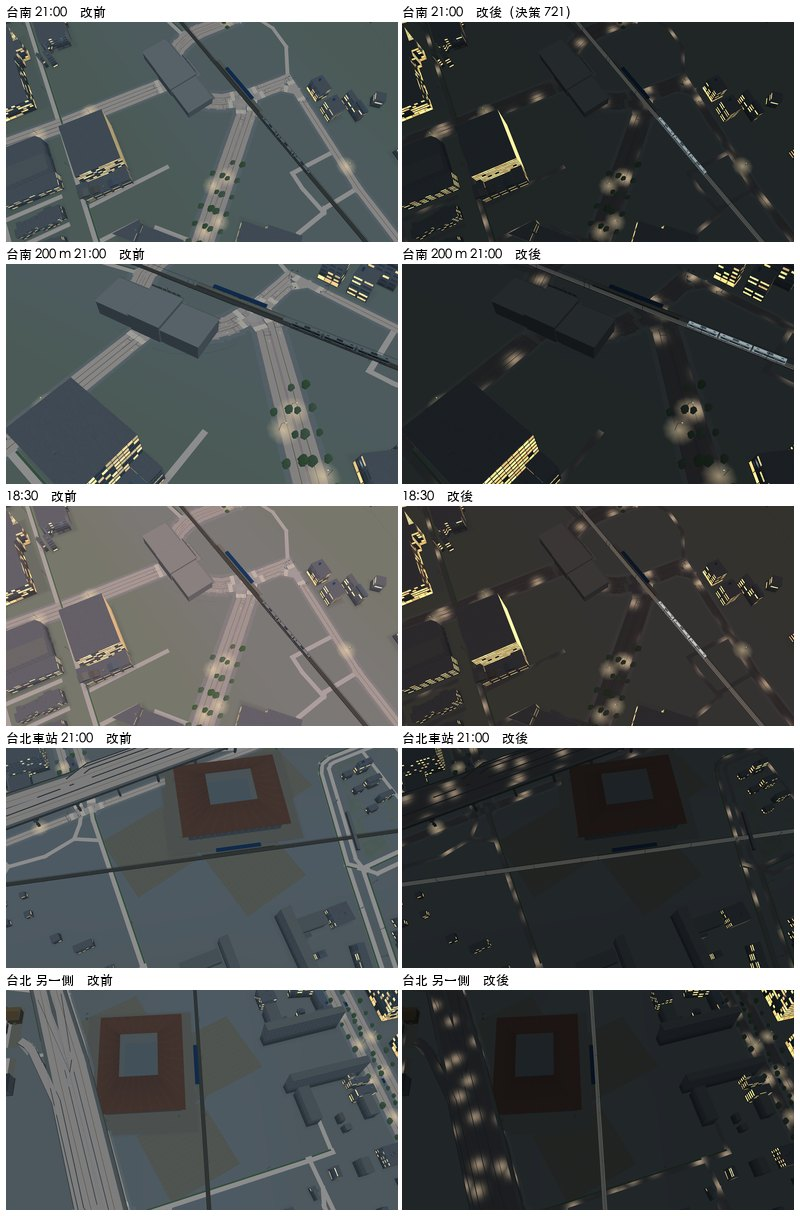
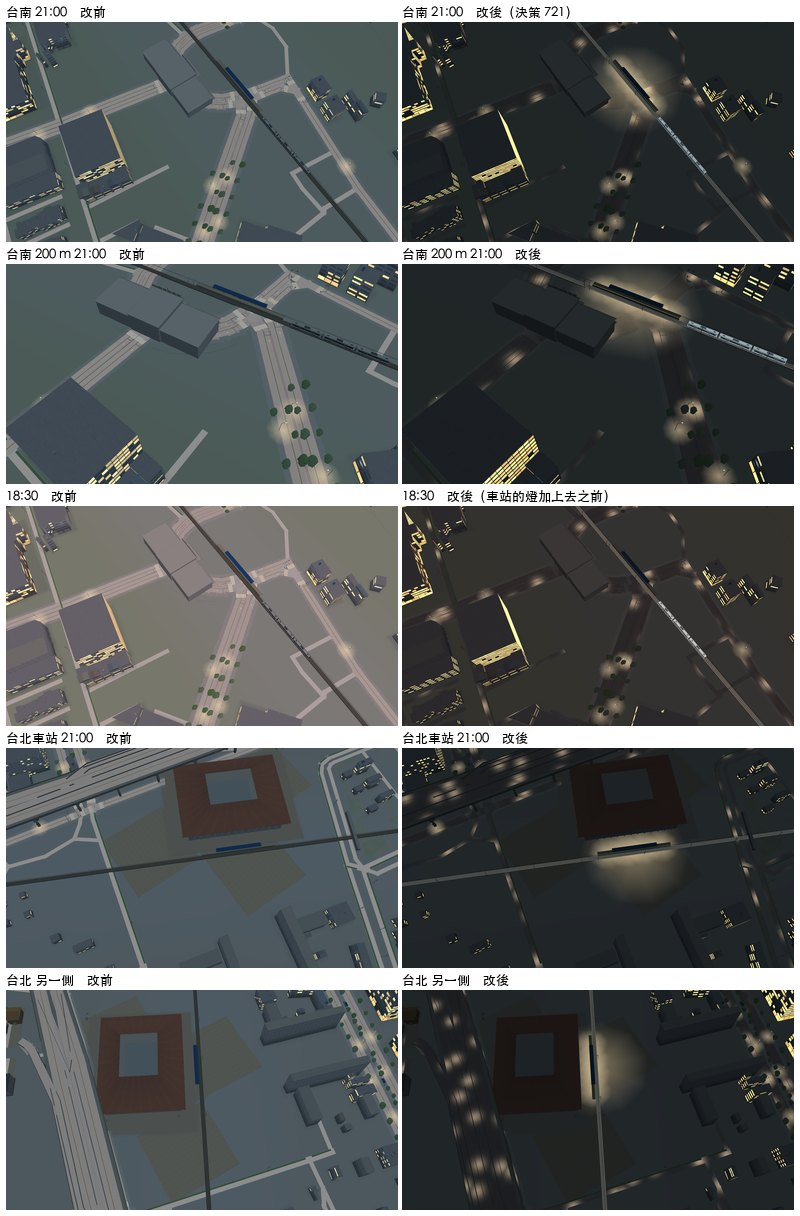
決策 721（續）：車站與月台夜裡的燈、版式軌道的亮線
月台沿線每 18 m 一個燈的光圈、車站中心一個大而淡的光圈（addPool）；
月台邊線與無道碴高架的軌道床用新的頂點層 Map3DVertex.nightLit（-20），
夜裡不變暗。白天不變。

diff --git a/Sources/GamePresentation/Map3DScene.swift b/Sources/GamePresentation/Map3DScene.swift
@@ -1776,13 +1776,34 @@ extension Map3DScene {
                 mesh(at: middle) { mesh in
                     mesh.addRibbon(along: line, width: width, offset: offset, lift: Self.platformHeight, depth: Self.platformHeight + Self.bedDrop,
                                    top: Map3DPalette.platform, side: Map3DPalette.platform, topPaint: Self.paving, sidePaint: Self.concrete)
+                    // Decision 721: its edge line lit after dark.
+                    let start = mesh.vertices.count
                     mesh.addRibbon(along: line, width: 0.3, offset: side * (edge + 0.35), lift: Self.platformHeight + 0.01,
                                    top: Map3DPalette.platformEdge)
+                    mesh.makeNightLit(from: start)
                 }
+                addPlatformLight(line, offset: offset)
                 // Decision 321: its canopy and its station's building come
                 // with the station kit (`addStations`).
                 laidPlatforms.append(LaidPlatform(station: platform.platform.station, line: line, offset: offset, width: width,
                                                   structure: platform.structure))
+            }
+        }
+
+        /// Decision 721: a platform's lamps on the ground round it after
+        /// dark, a pool every ``Map3DNight/platformPool``'s `every` metres
+        /// along it (drawn with the street lights' pools).
+        mutating func addPlatformLight(_ line: [Map3DPoint], offset: Float) {
+            guard let path = Map3DStreetLife.Path(line) else { return }
+            let pool = Map3DNight.platformPool
+            let count = max(1, Int((path.length / pool.every).rounded()))
+            for index in 0..<count {
+                let at = path.at(path.length * (Float(index) + 0.5) / Float(count))
+                let middle = at.point + at.right * offset
+                let centre = onGround([middle])[0], ring = onGround(Map3DProp.poolRing.map { middle + $0 * pool.radius })
+                shadow(at: key(of: middle), size: 4 * pool.radius) {
+                    $0.addPool(centre: centre, ring: ring, colour: Map3DProp.lampLight, strength: pool.strength)
+                }
             }
         }
 

diff --git a/Tests/GamePresentationTests/Map3DNightTests.swift b/Tests/GamePresentationTests/Map3DNightTests.swift
@@ -84,6 +84,23 @@ final class Map3DNightTests: XCTestCase {
         XCTAssertEqual(other.floats[19], 1)
     }
 
+    /// A station on the ground: its platform's edge line is lit after dark
+    /// (``Map3DVertex/nightLit``) and lamps' pools lie round the platform.
+    func testAPlatformIsLitAfterDark() throws {
+        let towns = Land.townCentres(seed: 1, in: GameWorld.newGameBounds)
+        let scene = Map3DScene(world: try newGameLine(through: [towns[0], towns[1]]))
+        let lit = scene.chunks.flatMap { $0.mesh.vertices }.filter { $0.layer == Map3DVertex.nightLit }
+        XCTAssertTrue(lit.contains { $0.color == Map3DPalette.platformEdge }, "no platform edge lit")
+        // A pool's middle carries its strength in its alpha.
+        let strength = UInt32((Map3DNight.platformPool.strength * 255).rounded())
+        let pools = scene.chunks.flatMap { $0.shadows.vertices }.filter { $0.color == (Map3DProp.lampLight & 0x00FF_FFFF) | strength << 24 }
+        XCTAssertGreaterThanOrEqual(pools.count, 2, "no lamps' pools round the platforms")
+        // The shader tells the layer.
+        let metal = try String(contentsOf: Self.root.appendingPathComponent("RailwayGameApp/Views/Map3D/Map3DShaders.metal"), encoding: .utf8)
+        XCTAssertEqual(Map3DVertex.nightLit, -20)
+        XCTAssertTrue(metal.contains("if (in.layer < -19.5 && in.layer > -20.5) { kept = 1.0;"))
+    }
+
     /// A road between two pools keeps a little light and a pool's middle
     /// has the most, as the shader's `map3dRoadPool` gives them.
     func testARoadIsLitInPools() {

diff --git a/Sources/GamePresentation/Map3DGeometry.swift b/Sources/GamePresentation/Map3DGeometry.swift
@@ -81,6 +81,10 @@ public struct Map3DVertex: Hashable, Sendable {
     /// Decision 653: ``modelTexture``, and lit from within at night as
     /// ``glowing`` is.
     public static let modelTextureLit: Float = -19
+    /// Decision 721: no texture, and the player's line after dark: the
+    /// night does not dim it and it is lit a little more (``Map3DNight``).
+    /// A slab track's bed, a platform's edge line.
+    public static let nightLit: Float = -20
     /// Decision 653: whether the vertex is painted by its model's texture.
     public var isModelTextured: Bool { layer < -17.5 && layer > -19.5 }
 
@@ -670,6 +674,12 @@ public struct Map3DMesh: Sendable {
 
     /// Decision 356: the vertices added since `start` water
     /// (``Map3DVertex/water``), keeping their colour.
+    /// Decision 721: the vertices added since `start` lit after dark
+    /// (``Map3DVertex/nightLit``), keeping their colour.
+    public mutating func makeNightLit(from start: Int) {
+        for index in start..<vertices.count { vertices[index].layer = Map3DVertex.nightLit }
+    }
+
     public mutating func makeWater(from start: Int) {
         for index in start..<vertices.count { vertices[index].layer = Map3DVertex.water }
     }

diff --git a/Sources/GamePresentation/Map3DStations.swift b/Sources/GamePresentation/Map3DStations.swift
@@ -296,6 +296,15 @@ extension Map3DScene.Builder {
             let station = Map3DStationKit.recipe(for: id, at: world, layout: layout, frame: frame)
             stationSystems[id] = station.system
             found.append((id, station, open, longest, middle))
+            // Decision 721: the station's own light on the ground round it
+            // after dark, wide and soft, so its building stands against it.
+            if contains(x: world.x, y: world.y) {
+                let pool = Map3DNight.stationPool
+                let centre = self.onGround([middle.point])[0], ring = self.onGround(Map3DProp.poolRing.map { middle.point + $0 * pool.radius })
+                shadow(at: key(of: middle.point), size: 4 * pool.radius) {
+                    $0.addPool(centre: centre, ring: ring, colour: Map3DProp.lampLight, strength: pool.strength)
+                }
+            }
         }
         // Decision 625: each station's middle from all its platforms, not
         // only those in the scene, so every block of chunks agrees.

diff --git a/Sources/GamePresentation/Map3DNight.swift b/Sources/GamePresentation/Map3DNight.swift
@@ -32,6 +32,12 @@ public enum Map3DNight {
     /// track's and trains' light come in: fast, as the track turns from
     /// darker than the ground to lighter and is neither in between.
     public static let fall: (from: Float, to: Float) = (0.45, 0.60)
+    /// A platform's lamps on the ground round it: a pool of this radius
+    /// and strength (as a street light's, ``Map3DScene``'s lamp pools)
+    /// every so many metres along it.
+    public static let platformPool: (radius: Float, strength: Float, every: Float) = (16, 0.6, 18)
+    /// And one wide pool round the station's middle.
+    public static let stationPool: (radius: Float, strength: Float) = (48, 0.45)
     /// The ballast's layer, which the shader tells the track bed by.
     public static let trackSurface = Map3DSurface.ballast
 }

diff --git a/Sources/GamePresentation/Map3DViaducts.swift b/Sources/GamePresentation/Map3DViaducts.swift
@@ -298,7 +298,9 @@ extension Map3DScene.Builder {
             if !look.ballasted {
                 target = .near
                 mesh(at: line[line.count / 2]) { mesh in
+                    let start = mesh.vertices.count
                     mesh.addRibbon(along: line, width: 2.6, lift: -0.2, depth: 0.15, top: Map3DPalette.ballast, side: Map3DPalette.ballast)
+                    mesh.makeNightLit(from: start) // Decision 721: as the ballast is.
                 }
             }
             // The parapets, or a truss's members, close up.

diff --git a/docs/decisions/721.md b/docs/decisions/721.md
@@ -14,6 +14,10 @@
 4. **玩家的軌道與列車留著光**：道床（`Map3DSurface.ballast`，貼圖層 2）不變暗，另外加自己顏色的 0.30；列車（`Map3DInstance.lit`，實例最後一個 float 是 2）不變暗，另外加 0.30。所以夜裡軌道由「最暗的線」變成「暗地上最亮的線」，列車又比軌道亮。
 5. **入夜很快**（`fall` 0.45–0.60）：1 與 4 不是跟著城市的燈慢慢來，而是在燈亮到 45%–60% 之間一起切換（遊戲裡約 17:52–17:58，測試限制在 10 分鐘內）。原因：軌道由比地面暗變成比地面亮，中間一定有一刻兩者一樣亮；跟著燈慢慢變的話，18:00 量到軌道對地面只有 0.2（軌道消失），所以把這一段壓短。窗燈與路燈仍照原本的速度亮起來。
 
+6. **車站與高架**（作者看了第一版後說「做車站與高架」）：
+   - 每個地面月台沿線每 18 m 一個燈的光圈（半徑 16 m、強度 0.6），車站中心再一個大而淡的光圈（半徑 48 m、強度 0.45），和路燈的光圈同一種畫法（`addPool`，只在夜裡顯示）；站房因此有一圈亮地襯著。
+   - 月台的黃色邊線與無道碴高架（高鐵、捷運的版式軌道）上的軌道床改用新的頂點層 `Map3DVertex.nightLit`（−20）：白天和原本一樣，夜裡不變暗並加自己顏色的 0.30，和道床相同。有道碴的高架、橋本來就用道床的貼圖，第一版就已經會亮（先前「高架沒有亮」說得太寬，只有版式軌道沒亮）。
+
 白天完全不變（14:00 的數字與決策 720 相同）。沒有加頂點、三角形、貼圖或 draw；`Map3DVertexOut` 多一個 flat 的 float。
 
 **量到的**（預覽頁，不是 Metal；場景與量法同決策 720、370；ΔL* 取絕對值，「暗／亮」是軌道比地面暗或亮）：
@@ -43,14 +47,14 @@
 
 **還不好的**（老實列）：
 
-1. **車站在夜裡太暗**：台北車站的屋頂變成暗紅，站房幾乎沒有自己的燈；玩家的車站應該是夜裡的亮點。下一步該做（站房的泛光、月台的燈）。
-2. **高架與橋上的軌道沒有亮**：只認道床的貼圖層，橋面是混凝土；高架路線夜裡只有列車是亮的。
+1. **站房本身仍是暗的**：現在亮的是月台與站區的地面，站房的屋頂與牆沒有自己的燈（台北車站的屋頂是暗紅）；要亮站房得替每種站房標出哪些面受光，另外做。
+2. **版式軌道的亮線只在近景**：高鐵、捷運高架上那條軌道床只有近景才畫，拉遠後高架上只有列車是亮的；這次沒有高鐵或捷運高架的場景可以拍，只有測試確認頂點層。
 3. 路燈光圈是照世界座標的格子放的，不對齊真正的燈桿，也不是等距；近看會發現。
 4. 郊區窗燈仍少（建物本來就少）；離網頁試做那種滿城的燈還有距離，一大半是建物密度（決策 720 後續 2）。
 5. 行人、車輛、路樹等其他實例跟著城市變暗，車子沒有頭燈。
 6. 只在預覽頁量過；Metal 編得過（`xcrun metal -c`），實機畫面 UNVERIFIED。雨夜、遠景（2 km 以上）、省電畫質沒有看。
 7. 清晨（燈熄的那一段）是同一條曲線倒過來，沒有另外拍。
 
-**驗證**：本機 macOS，Swift 6.4：`swift build --build-tests -Xswiftc -warnings-as-errors` 乾淨；`xcrun -sdk iphoneos metal -c Map3DShaders.metal` 通過；`Map3DNightTests`（新，5 個）與讀 shader、實例、淡色的測試通過（清單在 PR）。其餘留給 CI；實機 UNVERIFIED。
+**驗證**：本機 macOS，Swift 6.4：`swift build --build-tests -Xswiftc -warnings-as-errors` 乾淨；`xcrun -sdk iphoneos metal -c Map3DShaders.metal` 通過；`Map3DNightTests`（新，6 個）與讀 shader、實例、淡色的測試通過（清單在 PR）。其餘留給 CI；實機 UNVERIFIED。
 
 **參考**：沒有用參考庫或外部專案的檔案。網頁試做（`Web/CityView`）只並排比較畫面；光圈的雜湊是 shader 裡原有的 `hash12`。

diff --git a/docs/art/map3d-liveliness-2026-11-13/README.md b/docs/art/map3d-liveliness-2026-11-13/README.md
@@ -12,7 +12,7 @@
 
 ![built-night](built-night.jpg)
 
-左改前、右改後。城市暗下來（柔光 ×0.42），路燈改成一圈一圈，窗燈多一點，玩家的道床與列車留著光。選項（現在／中／深／網頁試做對照）在 `night-options.jpg`；數字與還不好的地方在[決策 721](../../decisions/721.md)。
+左改前、右改後。城市暗下來（柔光 ×0.42），路燈改成一圈一圈，窗燈多一點，玩家的道床與列車留著光，月台與站區有燈的光圈。選項（現在／中／深／網頁試做對照）在 `night-options.jpg`；數字與還不好的地方在[決策 721](../../decisions/721.md)。
 
 另外兩張只是比較、沒有實作：`web-compare.jpg`（和網頁試做的高雄、台中車站並排，白天）、`night-compare.jpg`（夜晚並排，與一版試調）。`night-compare.jpg` 裡那版試調已由決策 721 取代。
 
